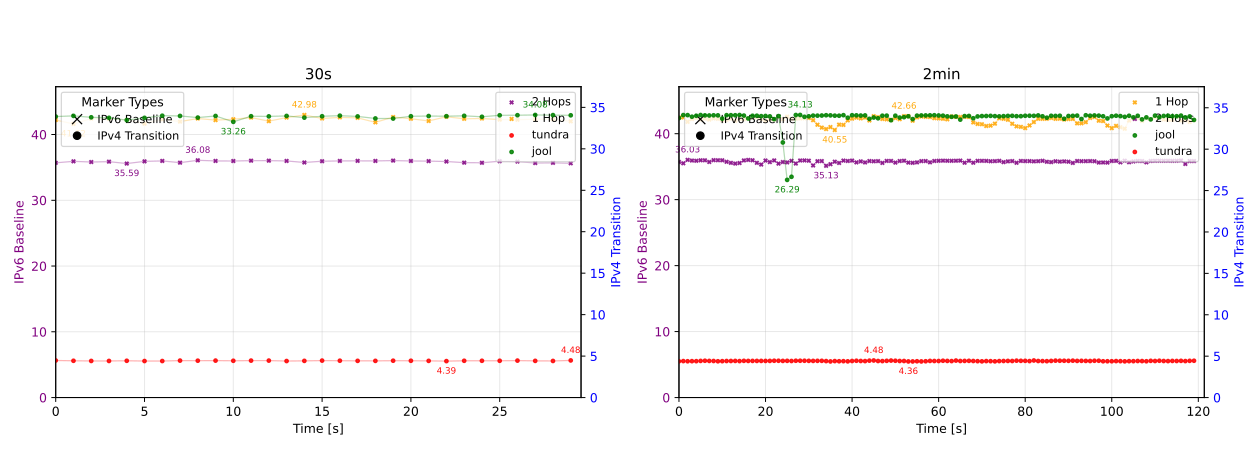
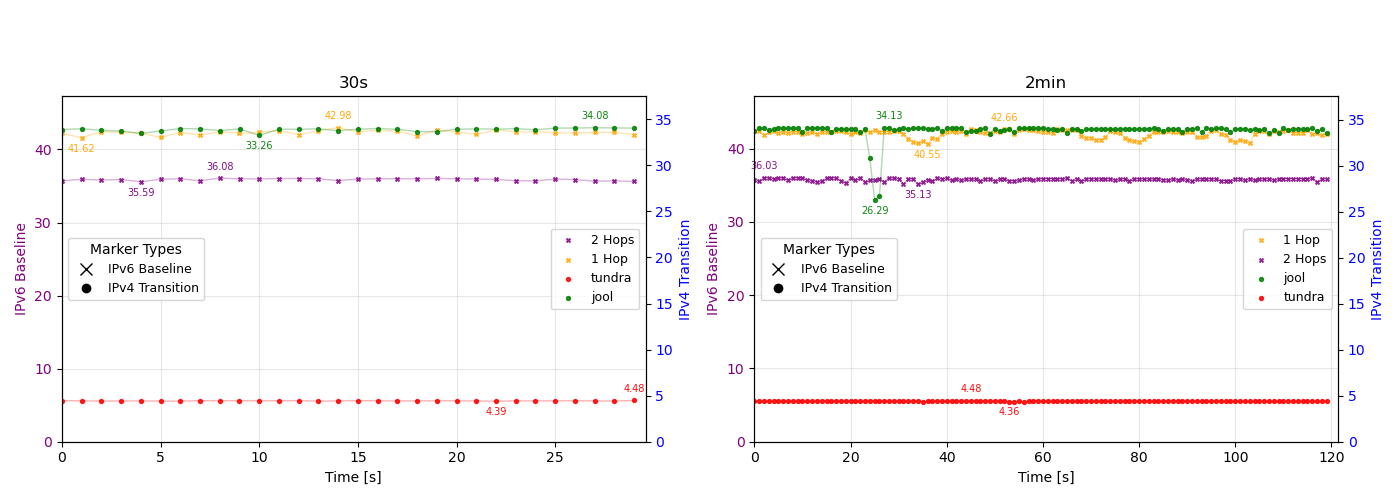
single jitter, updated

diff --git a/plot_tcp_jitter_plot.py b/plot_tcp_jitter_plot.py
@@ -6,9 +6,9 @@ import numpy as np
 from matplotlib.lines import Line2D
 
 # ================== CONFIG ==================
-FOLDER = "RawMessungen/LocalSingle_hpet_clocktime"
+FOLDER = "RawMessungen/LocalSingle_tsc_clocktime"
 IMG_DIR = "img"
-CLOCKTIME_LABEL = "hpet"
+CLOCKTIME_LABEL = "tsc"
 SCENARIO_NAME = "Single"
 
 # Annotation settings
@@ -304,7 +304,7 @@ for ylog in [False, True]:
             
             # Main legend for the data
             legend1 = ax_left.legend(lines_left + lines_right, labels_left + labels_right, 
-                                   fontsize=9, loc="upper right")
+                                   fontsize=9, loc="center right")
             
             # Add shape legend
             shape_legend_elements = [
@@ -314,7 +314,7 @@ for ylog in [False, True]:
                        markersize=6, label='IPv4 Transition')
             ]
             legend2 = ax_left.legend(handles=shape_legend_elements, fontsize=9, 
-                                   loc="upper left", title='Marker Types')
+                                   loc="center left", title='Marker Types')
             
             # Add the first legend back
             ax_left.add_artist(legend1)
@@ -329,8 +329,8 @@ for ylog in [False, True]:
     yscale_name_file = yscale_name.lower()
     throughput_plot_path = os.path.join(
         IMG_DIR,
-        f"{SCENARIO_NAME}_tcp_dualAxis_{CLOCKTIME_LABEL}_{yscale_name_file}.svg"
+        f"{SCENARIO_NAME}_tcp_dualAxis_{CLOCKTIME_LABEL}_{yscale_name_file}.png"
     )
-    plt.savefig(throughput_plot_path, format='svg')
+    plt.savefig(throughput_plot_path, format='png')
     print(f"Throughput plot saved to {throughput_plot_path}")
     plt.close(fig_thr)
